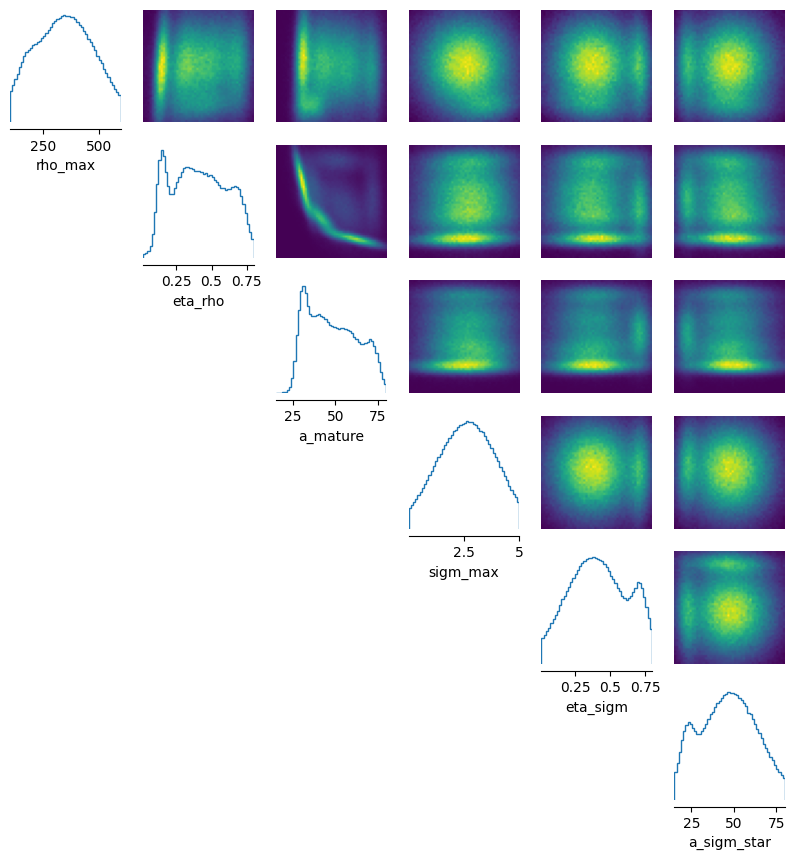
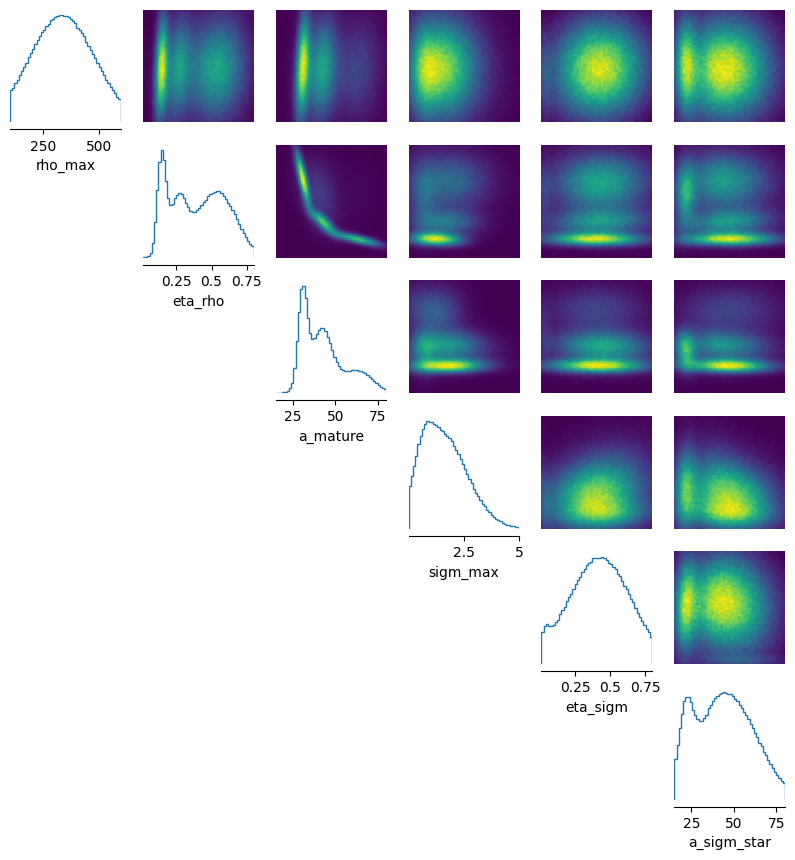
Try adding 'level out' statistic
- Add observation/summary stat that rho_a*epsilon_rho level out by the end of the last bin (here, ~ age 65).
- Shifted the most probably mature ages back significantly (as expected), but inference is still really fuzzy.

diff --git a/model_fitting/calibration.py b/model_fitting/calibration.py
@@ -10,60 +10,90 @@ from sbi import analysis as analysis
 from torch.distributions import Uniform
 from sbi.utils import MultipleIndependent
 from torch import tensor
-from simulator import simulator
+#from simulator import simulator
 
-with open("prior.pkl", "rb") as handle:
-    prior = pickle.load(handle)
-#prior, theta_numel, prior_returns_numpy = utils.user_input_checks.process_prior(prior)
-simulator = utils.user_input_checks.process_simulator(simulator, prior, is_numpy_simulator=True)
+processes = ['fecundity']
+for pr in processes:
+    if pr == 'mortality':
+        from mortality.simulator import simulator
+        labels = ['alph_m', 'beta_m', 'sigm_m','alph_nu']
+    elif pr == 'fecundity':
+        from fecundity.simulator import simulator
+        labels = ['rho_max', 'eta_rho', 'a_mature', 'sigm_max', 'eta_sigm', 'a_sigm_star']
+    with open(pr+"/prior.pkl", "rb") as handle:
+        prior = pickle.load(handle)
+    simulator = utils.user_input_checks.process_simulator(simulator, prior, is_numpy_simulator=True)
 
+    with open(pr+"/posterior.pkl", "rb") as handle:
+        posterior = pickle.load(handle)
 
-with open("posterior.pkl", "rb") as handle:
-    posterior = pickle.load(handle)
+    num_simulations = 5_000  # choose a number of sbc runs, should be ~100s or ideally 1000
+    # generate ground truth parameters and corresponding simulated observations for SBC.
+    thetas, xs = simulate_for_sbi(simulator, proposal=prior, num_simulations=num_simulations, num_workers=8)
+    # filter out invalid parameter samples
+    thetas = thetas[~torch.any(xs.isnan(),dim=1)]
+    xs = xs[~torch.any(xs.isnan(),dim=1)]
 
-num_simulations = 5_000  # choose a number of sbc runs, should be ~100s or ideally 1000
-# generate ground truth parameters and corresponding simulated observations for SBC.
-thetas, xs = simulate_for_sbi(simulator, proposal=prior, num_simulations=num_simulations, num_workers=8)
-# filter out invalid parameter samples
-thetas = thetas[~torch.any(xs.isnan(),dim=1)]
-xs = xs[~torch.any(xs.isnan(),dim=1)]
-
-num_posterior_samples = 100_000
-ranks, dap_samples = run_sbc(
-    thetas, xs, posterior, num_posterior_samples=num_posterior_samples,
-    num_workers=8, reduce_fns='marginals'#posterior.log_prob,
-)
-with open('ranks.pkl', 'wb') as handle:
-    pickle.dump(ranks, handle)
-check_stats = check_sbc(
-    ranks, thetas, dap_samples, num_posterior_samples=num_posterior_samples
-)
-with open('sbc_stats.pkl', 'wb') as handle:
-    pickle.dump(check_stats, handle)
-with open('sbc-log.txt', 'w') as handle:
-    handle.write(
-        f"""kolmogorov-smirnov p-values \n
-        check_stats['ks_pvals'] = {check_stats['ks_pvals'].numpy()} \n"""
+    num_posterior_samples = 100_000
+    ranks, dap_samples = run_sbc(
+        thetas, xs, posterior, num_posterior_samples=num_posterior_samples,
+        num_workers=8, reduce_fns='marginals'#posterior.log_prob,
     )
-    handle.write(
-        f"c2st accuracies \ncheck_stats['c2st_ranks'] = {check_stats['c2st_ranks'].numpy()} \n"
+    with open(pr+'/ranks.pkl', 'wb') as handle:
+        pickle.dump(ranks, handle)
+    check_stats = check_sbc(
+        ranks, thetas, dap_samples, num_posterior_samples=num_posterior_samples
     )
-    handle.write(f"check_stats['c2st_dap'] = {check_stats['c2st_dap'].numpy()} \n")
+    with open(pr+'/sbc_stats.pkl', 'wb') as handle:
+        pickle.dump(check_stats, handle)
+    with open(pr+'/sbc-log.txt', 'w') as handle:
+        handle.write(
+            f"""kolmogorov-smirnov p-values \n
+            check_stats['ks_pvals'] = {check_stats['ks_pvals'].numpy()} \n"""
+        )
+        handle.write(
+            f"c2st accuracies \ncheck_stats['c2st_ranks'] = {check_stats['c2st_ranks'].numpy()} \n"
+        )
+        handle.write(f"check_stats['c2st_dap'] = {check_stats['c2st_dap'].numpy()} \n")
 
-labels = ['alph_m', 'beta_m', 'sigm_m','alph_nu']
-f, ax = analysis.plot.sbc_rank_plot(
-    ranks=ranks,
-    num_posterior_samples=num_posterior_samples,
-    plot_type="hist",
-    parameter_labels=labels,
-    num_bins=None,  # by passing None we use a heuristic for the number of bins.
-)
-f.savefig('sbi_figs/rank_hist.png', bbox_inches='tight')
+    f, ax = analysis.plot.sbc_rank_plot(
+        ranks=ranks,
+        num_posterior_samples=num_posterior_samples,
+        plot_type="hist",
+        parameter_labels=labels,
+        num_bins=None,  # by passing None we use a heuristic for the number of bins.
+    )
+    f.savefig('sbi_figs/{}_rank_hist.png'.format(pr), bbox_inches='tight')
 
-f, ax = analysis.plot.sbc_rank_plot(
-    ranks=ranks, 
-    num_posterior_samples=num_posterior_samples, 
-    plot_type="cdf",
-    parameter_labels=labels
-)
-f.savefig('sbi_figs/rank_cdf.png', bbox_inches='tight')
+    f, ax = analysis.plot.sbc_rank_plot(
+        ranks=ranks, 
+        num_posterior_samples=num_posterior_samples, 
+        plot_type="cdf",
+        parameter_labels=labels
+    )
+    f.savefig('sbi_figs/{}_rank_cdf.png'.format(pr), bbox_inches='tight')
+
+    ### ppc
+    x_o = np.load(pr+'/observations/observations.npy')
+    x_o = torch.Tensor(x_o)
+    posterior_samples = posterior.sample(sample_shape=(10_000,))
+    x_pp = simulator(posterior_samples)
+    x_pp = x_pp[~torch.any(x_pp.isnan(),dim=1)]
+    with open(pr+'/x_pp.pkl', 'wb') as handle:
+        pickle.dump(x_pp, handle)
+    mins = x_pp.amin(0)
+    maxes = x_pp.amax(0)
+    limits = torch.tensor([[mins[i], maxes[i]] for i in range(x_pp.shape[1])])
+    if pr == 'mortality':
+        limits[9][0] = -0.0005; limits[9][1] = 0.001
+        limits[12][0] = -0.0005; limits[12][1] = 0.0008
+        limits[13][0] = -0.00005; limits[13][1] = 0.00015
+        limits[14][0] = -0.00005; limits[14][1] = 0.0001
+    ppc = analysis.pairplot(
+        samples=x_pp,
+        points=x_o, 
+        points_offdiag=dict(marker="+", markersize=10),
+        limits=limits,
+        figsize=(16,16)
+    )
+    ppc[0].savefig('sbi_figs/{}_npe_ppc.png'.format(pr), bbox_inches='tight')

diff --git a/model_fitting/sbi_main.py b/model_fitting/sbi_main.py
@@ -48,8 +48,8 @@ for pr in processes:
                            [0.01, 0.8],
                            [15, 80]
         ])
-        restrictor_sims = 5_000
-        training_sims = 5_000
+        #restrictor_sims = 50_000
+        training_sims = 20_000
         num_samples = 1_000_000 
 
     # First, compute and store summary statistics of observed data
@@ -82,23 +82,25 @@ for pr in processes:
         with open(pr+"/prior.pkl", "wb") as handle:
             pickle.dump(prior, handle)
         simulator = utils.user_input_checks.process_simulator(simulator, prior, is_numpy_simulator=True)
-        theta, x = simulate_for_sbi(simulator, proposal=prior, num_simulations=restrictor_sims, num_workers=8)
-        print(x[0])
-        restriction_estimator = RestrictionEstimator(prior=prior)
-        restriction_estimator.append_simulations(theta, x)
-        classifier = restriction_estimator.train()
-        restricted_prior = restriction_estimator.restrict_prior()
-        with open(pr+"/restricted_prior.pkl", "wb") as handle:
-            pickle.dump(restricted_prior, handle)
-        new_theta, new_x = simulate_for_sbi(simulator, restricted_prior, training_sims)
-        restriction_estimator.append_simulations(
-            new_theta, new_x
-        )  # Gather the new simulations in the `restriction_estimator`.
-        (
-            all_theta,
-            all_x,
-            _,
-        ) = restriction_estimator.get_simulations()  # Get all simulations run so far.
+        if pr == 'mortality':
+            theta, x = simulate_for_sbi(simulator, proposal=prior, num_simulations=restrictor_sims, num_workers=8)
+            restriction_estimator = RestrictionEstimator(prior=prior)
+            restriction_estimator.append_simulations(theta, x)
+            classifier = restriction_estimator.train()
+            restricted_prior = restriction_estimator.restrict_prior()
+            with open(pr+"/restricted_prior.pkl", "wb") as handle:
+                pickle.dump(restricted_prior, handle)
+            new_theta, new_x = simulate_for_sbi(simulator, restricted_prior, training_sims, num_workers=8)
+            restriction_estimator.append_simulations(
+                new_theta, new_x
+            )  # Gather the new simulations in the `restriction_estimator`.
+            (
+                all_theta,
+                all_x,
+                _,
+            ) = restriction_estimator.get_simulations()  # Get all simulations run so far.
+        elif pr == 'fecundity':
+            all_theta, all_x = simulate_for_sbi(simulator, proposal=prior, num_simulations=training_sims, num_workers=8)
         with open(pr+"/all_theta.pkl", "wb") as handle:
             pickle.dump(all_theta, handle)
         with open(pr+"/all_x.pkl", "wb") as handle:
@@ -106,15 +108,18 @@ for pr in processes:
     else:
         with open(pr+"/prior.pkl", "rb") as handle:
             prior = pickle.load(handle)
-        with open(pr+"/restricted_prior.pkl", "rb") as handle:
-            restricted_prior = pickle.load(handle)
         with open(pr+"/all_theta.pkl", "rb") as handle:
             all_theta = pickle.load(handle)
         with open(pr+"/all_x.pkl", "rb") as handle:
             all_x = pickle.load(handle)
         if add_simulations:
             simulator = utils.user_input_checks.process_simulator(simulator, prior, is_numpy_simulator=True)
-            new_theta, new_x = simulate_for_sbi(simulator, restricted_prior, 100_000, num_workers=8)
+            if pr == 'mortality':
+                with open(pr+"/restricted_prior.pkl", "rb") as handle:
+                    restricted_prior = pickle.load(handle)
+                new_theta, new_x = simulate_for_sbi(simulator, restricted_prior, 100_000, num_workers=8)
+            elif pr == 'fecundity':
+                new_theta, new_x = simulate_for_sbi(simulator, prior, 100_000, num_workers=8)
             all_theta = torch.cat((all_theta, new_theta), 0)
             all_x = torch.cat((all_x, new_x), 0)
             with open(pr+"/all_theta.pkl", "wb") as handle:

diff --git a/model_fitting/fecundity/simulator.py b/model_fitting/fecundity/simulator.py
@@ -46,7 +46,8 @@ for i in range(numbins):
     bin_errors.append(err)
 
 def save_observations():
-    observations = np.concatenate((mean_fecundities, bin_errors))
+    #observations = np.concatenate((mean_fecundities, bin_errors))
+    observations = np.concatenate((mean_fecundities, bin_errors, [0.2]))
     np.save('fecundity/observations/observations.npy', observations)
 
 def simulator(params):
@@ -54,7 +55,12 @@ def simulator(params):
     sigm_max = params[3]; eta_sigm = params[4]; a_sigm_star = params[5]
 
     # Read this in from file(s) in the actual script
-    a_vec = np.concatenate((np.repeat(stand_age_bren, num_sites), stand_age_dunn))
+    #a_vec = np.concatenate((np.repeat(stand_age_bren, num_sites), stand_age_dunn))
+    a_vec = np.concatenate((
+                            np.repeat(stand_age_bren, num_sites), 
+                            stand_age_dunn,
+                            [numbins*binwidth + 1, (numbins+1)*binwidth]
+                           ))
     a_vec.sort()
 
     rho_a = rho_max / (1+np.exp(-eta_rho*(a_vec-a_mature)))
@@ -62,17 +68,20 @@ def simulator(params):
     sigm_a = sigm_max / (1+np.exp(-eta_sigm*(a_vec-a_sigm_star)))
     epsilon_rho = rng.lognormal(np.zeros_like(a_vec), sigm_a)
     fecundities = rng.poisson(rho_a*epsilon_rho)
-    # fecundities = rng.poisson(rho_a)
 
     mean_fecundities = np.zeros(numbins)
     bin_stdevs = np.zeros(numbins)
-    results = np.empty(numbins*2)
+    results = np.empty(numbins*2 + 1)
     for i in range(numbins):
         filt = ((a_vec > binwidth*i) & (a_vec <= binwidth*(i+1)))
         fecundities_bin = fecundities[filt]
         mean_fecundities[i] = fecundities_bin.mean()
         bin_stdevs[i] = np.std(fecundities_bin, ddof=1)
-
     results[0:numbins] = mean_fecundities
     results[numbins:numbins*2] = bin_stdevs
+
+    # Fecundity should level out by end of last bin
+    # check using mean epsilon value
+    mean_diff = rho_a[-1]*np.exp(sigm_a[-1]**2 / 2) - rho_a[-2]*np.exp(sigm_a[-2]**2 / 2)
+    results[-1] = mean_diff
     return results
